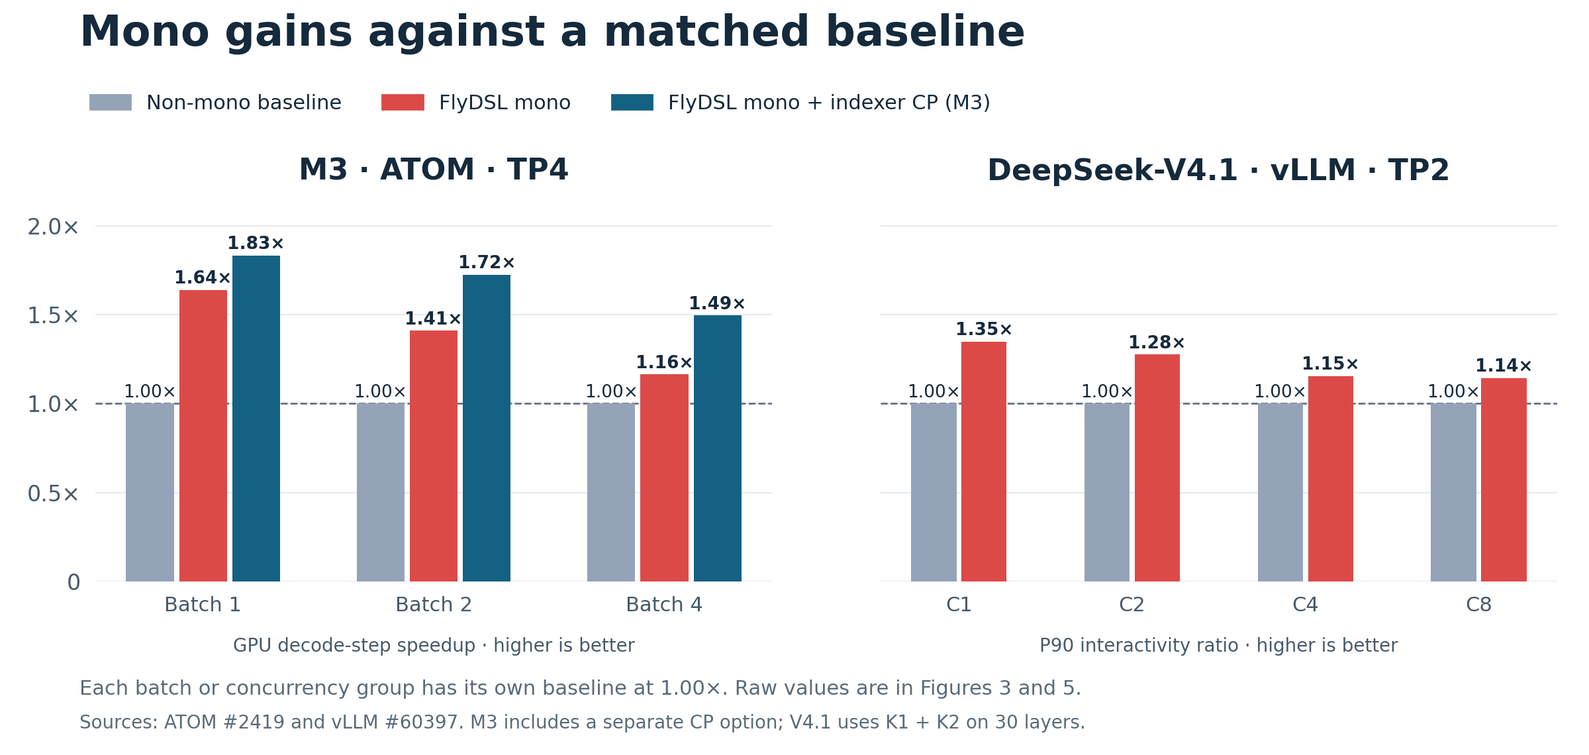
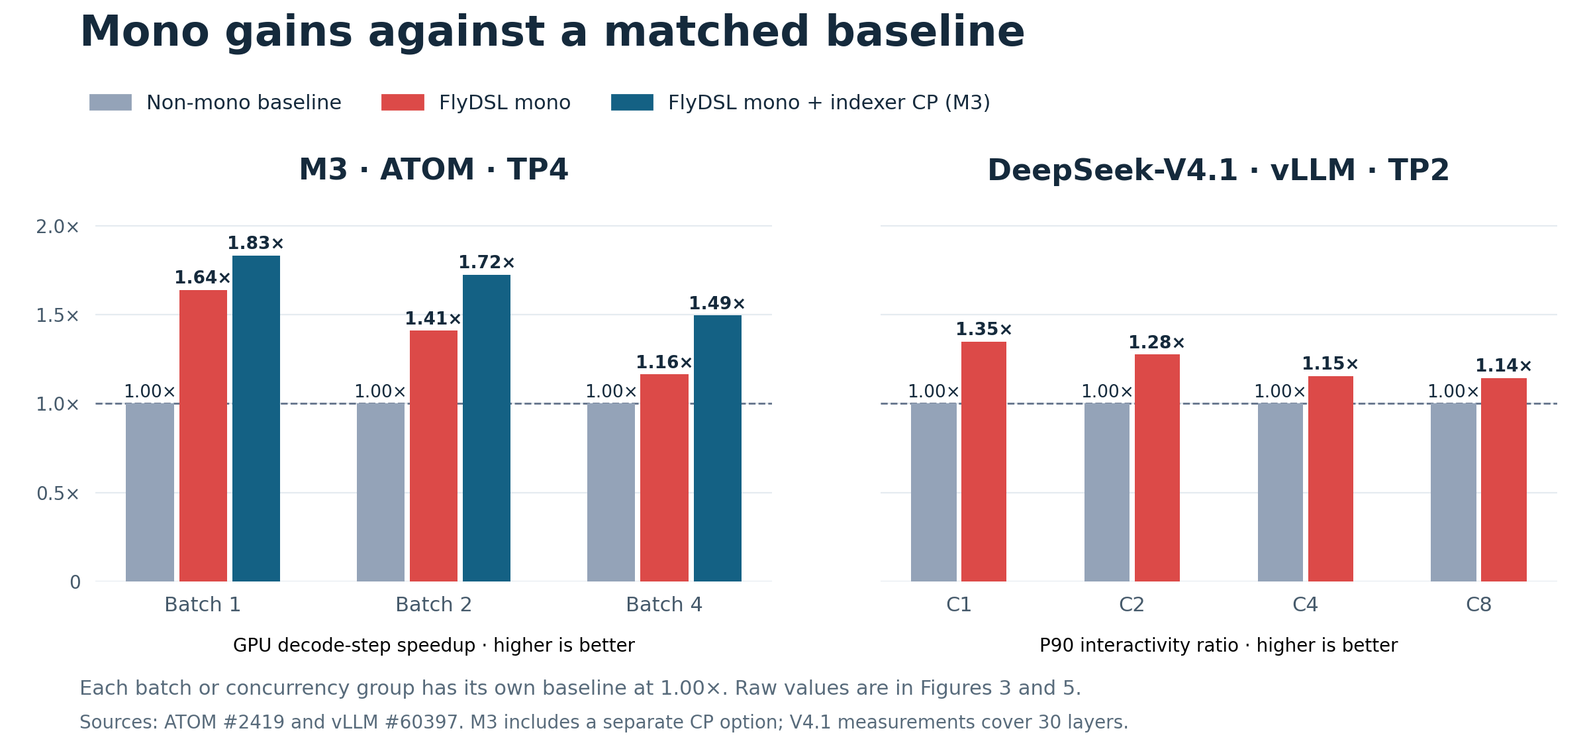
Review mono implementation claims and consolidate blog references

diff --git a/blogs/software-tools-optimization/flydsl-atom-mono-kernels/data/plot-vllm-agentx.py b/blogs/software-tools-optimization/flydsl-atom-mono-kernels/data/plot-vllm-agentx.py
@@ -21,8 +21,12 @@ for row in rows:
     if row["source"] != SOURCE or row["metric"] != "P90 interactivity":
         continue
     match = re.search(r"concurrency (\d+);", row["configuration"])
-    if match is None or row["unit"] != "tokens/s/user":
-        raise ValueError("Expected request concurrency and tokens/s/user")
+    if (
+        match is None
+        or row["unit"] != "tokens/s/user"
+        or "TP2;" not in row["configuration"]
+    ):
+        raise ValueError("Expected TP2, request concurrency, and tokens/s/user")
     concurrency = int(match[1])
     if concurrency in points:
         raise ValueError(f"Duplicate interactivity for concurrency {concurrency}")
@@ -55,9 +59,7 @@ for y, (concurrency, (off, on)) in zip([6, 4, 2, 0], sorted(points.items())):
 ax.legend(
     handles=[
         Patch(color=color, label=label)
-        for color, label in zip(
-            colors, ("Mono off", "FlyDSL mono: K1 + K2 on 30 layers")
-        )
+        for color, label in zip(colors, ("Mono off", "FlyDSL mono (30 layers)"))
     ],
     loc="upper left",
     bbox_to_anchor=(0, 1.17),
@@ -87,7 +89,7 @@ fig.text(
 fig.text(
     0.13,
     0.09,
-    "One 3,600 s run per mode and concurrency · synthetic DSpark acceptance 3.51",
+    "One 3,600 s run per mode and concurrency · synthetic DSpark acceptance length 3.51",
     fontsize=10,
 )
 fig.text(

diff --git a/blogs/software-tools-optimization/flydsl-atom-mono-kernels/data/plot-mono-speedups.py b/blogs/software-tools-optimization/flydsl-atom-mono-kernels/data/plot-mono-speedups.py
@@ -115,7 +115,7 @@ fig.text(
 fig.text(
     0.05,
     0.035,
-    "Sources: ATOM #2419 and vLLM #60397. M3 includes a separate CP option; V4.1 uses K1 + K2 on 30 layers.",
+    "Sources: ATOM #2419 and vLLM #60397. M3 includes a separate CP option; V4.1 measurements cover 30 layers.",
     fontsize=10,
     color="#586b7b",
 )

diff --git a/blogs/software-tools-optimization/flydsl-atom-mono-kernels/README.md b/blogs/software-tools-optimization/flydsl-atom-mono-kernels/README.md
@@ -29,62 +29,62 @@ myst:
 
 **Extremely high interactivity is critical for LLM applications with strict latency requirements.** Fast token generation helps a coding agent produce its next action sooner and move on to the next step. The goal is to improve interactivity by reducing decode latency.
 
-[FlyDSL](https://github.com/ROCm/FlyDSL) gives developers the flexibility to write and tune GPU code at the **grid, block, wave, thread, and instruction levels** in Python. They can control how work is assigned, how data is laid out and moved, and where synchronization is needed. These controls let them optimize individual operations and connect the stages of a model layer into **mono kernels** that overlap independent work and reduce waits. [ATOM][4] uses these capabilities to build mono decode across several model families. The approach also extends to [vLLM](https://github.com/vllm-project/vllm) and [SGLang](https://github.com/sgl-project/sglang).
+[FlyDSL][1] gives developers the flexibility to write and tune GPU code at the **grid, block, wave, thread, and instruction levels** in Python. They can control how work is assigned, how data is laid out and moved, and where synchronization is needed. These controls let them optimize individual operations and connect the stages of a model layer into **mono kernels** that overlap independent work and reduce waits. [ATOM](https://github.com/ROCm/ATOM) uses these capabilities to build mono decode across several model families. The approach also extends to [vLLM](https://github.com/vllm-project/vllm) and [SGLang](https://github.com/sgl-project/sglang).
 
 ## Why mono kernels speed up decode
 
-Small-batch decode runs many short kernels to process a few tokens at a time. Each launch adds overhead, and some kernels have too little parallel work to keep the GPU busy. When kernels depend on one another, each must finish before the next can begin.
+Small-batch decode runs many short kernels to process a few tokens at a time. Each launch adds overhead, and some kernels have too little parallel work to keep the GPU busy. On a stream, kernels run in sequence: a later stage waits for the previous kernel to finish, even when some of its input is already available.
 
-Mono kernels combine related operations into fewer launches and let thread blocks work across stages. Developers can load weights alongside earlier computation and let the next stage process portions of the output as they become ready. They can also overlap computation with reductions across GPUs. Together, these choices reduce idle time and help the decode step finish sooner. [3], [11]
+Mono kernels combine related operations into fewer launches and let thread blocks work across stages. Developers can load weights alongside earlier computation and let the next stage process portions of the output as they become ready. They can also overlap computation with reductions across GPUs. Together, these choices reduce idle time and help the decode step finish sooner. [2], [3]
 
 HIP Graph replay reduces CPU submission overhead, but the GPU still executes dependent kernels in sequence. Mono also changes how stages share data and overlap work within a launch.
 
 ## What FlyDSL provides
 
-FlyDSL gives developers four kinds of control over a GPU program: [2]
+FlyDSL gives developers four kinds of control over a GPU program: [1]
 
 - **Work assignment.** Assign tasks to thread blocks and threads, and tune the mapping for different numbers of tokens per step.
 - **Layout and tiling.** Choose how data is arranged and divided into tiles for each stage.
 - **Data movement and synchronization.** Decide when to load data and how to signal that an output is ready, within a GPU or across GPUs.
-- **Low-level control.** Write and tune a wide range of operations at the grid, block, wave, and thread levels, with control down to individual GPU instructions. [2], [7]
+- **Low-level control.** Write and tune a wide range of operations at the grid, block, wave, and thread levels, with control down to individual GPU instructions. [1], [2]
 
-These controls connect local kernel tuning with scheduling across a layer. Developers can coordinate blocks across a grid, tune work within a block, and control how threads cooperate within a wave. They can also decide how blocks hand data to later stages. This lets them optimize both the operations themselves and the way those operations work together. [2], [7]
+These controls connect local kernel tuning with scheduling across a layer. Developers can coordinate blocks across a grid, tune work within a block, and control how threads cooperate within a wave. They can also decide how blocks hand data to later stages. This lets them optimize both the operations themselves and the way those operations work together. [1], [2]
 
-Mono kernels use these controls to keep **thread blocks** active across stages, passing ready results to consumers and taking on new tasks as the layer advances. [3], [7]
+Mono kernels use these controls to keep **thread blocks** active across stages, passing ready results to consumers and taking on new tasks as the layer advances. [2]
 
 ![Work inside a mono kernel: prepare weights early, pass ready output to reductions, and feed the next computation](images/mono-overlap.svg)
 
 *Figure 1. Mono loads weights early, passes ready portions of the output forward, and overlaps reductions with computation. The timeline is schematic.*
 
-**Developers design the fusion.** They manage scheduling and synchronization, including keeping the required thread blocks resident so the kernel can make progress. ATOM handles runtime buffers, coordination across tensor-parallel (TP) ranks, graph replay, correctness checks, and fallback. [3], [8]
+**Developers design the fusion.** They manage scheduling and synchronization, including keeping the required thread blocks resident so the kernel can make progress. ATOM handles runtime buffers, coordination across tensor-parallel (TP) ranks, graph replay, correctness checks, and fallback. [2], [4]
 
-The design is inspired by **TileRT**. [5], [6]
+The design is inspired by **TileRT**. [5]
 
 ## Bringing mono kernels to ATOM
 
-ATOM supports FlyDSL mono decode for **GLM-5.2, Kimi-K3, DeepSeek-V4.1, and MiniMax-M3**. Its [shared mono components](https://github.com/ROCm/ATOM/tree/53e4fb52403707ab07b69ee909501ea3cc25ca5c/atom/mono) let developers adapt scheduling and data handoffs to each model. Kimi-K3 uses mono for its linear-attention (KDA) layers; its MLA layers keep the existing path. [1], [8], [13]
+ATOM supports FlyDSL mono decode for **GLM-5.2, Kimi-K3, DeepSeek-V4.1, and MiniMax-M3**. Its [shared mono components](https://github.com/ROCm/ATOM/tree/53e4fb52403707ab07b69ee909501ea3cc25ca5c/atom/mono) let developers adapt scheduling and data handoffs to each model. Kimi-K3 uses mono for eligible linear-attention (KDA) layers; its first layer and MLA layers keep the existing path. [2], [4], [6]
 
-The shared components handle recurring needs such as buffers, synchronization, and reductions. Each model supplies the schedule that connects its own stages. ATOM then connects that schedule to serving: batching and speculative decoding can change the number of tokens in a step, so runtime dispatch must select a supported path and keep participating GPUs in agreement. [8], [13]
+The shared components handle recurring needs such as buffers, synchronization, and reductions. Each model supplies the schedule that connects its own stages. ATOM then connects that schedule to serving: batching and speculative decoding can change the number of tokens in a step, so runtime dispatch must select a supported path and keep participating GPUs in agreement. [4], [6]
 
 The following diagrams focus on the computations handled by mono kernels and how their data flows between stages.
 
 ### MiniMax-M3: connecting attention and experts
 
-For MiniMax-M3's sparse layers, mono fuses the path from input normalization through attention and mixture-of-experts (MoE) computation to the reduced expert output. **The matrix multiplications are included:** Q/K/V and index projections, the attention output projection, routing, and the shared and routed experts' up/gate and down projections. Head normalization, positional encoding (RoPE), cache writes, and TP reductions are also part of the fused computation. [3]
+For MiniMax-M3's sparse layers, mono fuses the path from input normalization through attention and mixture-of-experts (MoE) computation to the reduced expert output. **The matrix multiplications are included:** Q/K/V and index projections, the attention output projection, routing, and the shared and routed experts' up/gate and down projections. Head normalization, positional encoding (RoPE), cache writes, and TP reductions are also part of the fused computation. [2]
 
-Layers that reuse an earlier layer's selected blocks skip index scoring and selection. The first three dense layers also use fused input preparation and fused output-projection/MLP computation; their attention calculation uses the existing backend. [3]
+Layers that reuse an earlier layer's selected blocks skip indexer projections, scoring, and selection. The first three dense layers also use fused input preparation and fused output-projection/MLP computation; their attention calculation uses the existing backend. [2]
 
 ![MiniMax-M3 mono computation: input projections, query and cache preparation, sparse attention, output projection and reduction, routing, and expert projections and reduction](images/minimax-mono-flow.svg)
 
-*Figure 2. Computations fused in M3's sparse-layer mono path. Matrix multiplications appear in the input projections, attention, output projection, router, and experts. Arrows summarize data flow; independent tasks can overlap. [3]*
+*Figure 2. Computations fused in M3's sparse-layer mono path. Matrix multiplications appear in the input projections, attention, output projection, router, and experts. Arrows summarize data flow; independent tasks can overlap. [2]*
 
 Three scheduling choices reduce waits:
 
-- **Reuse thread blocks across stages.** A block can finish attention work and then take on routing or expert tasks. Its role changes as the layer progresses, allowing the schedule to use the same GPU resources for different operations. [3], [9]
-- **Load weights early.** A later stage's weights can load while earlier work is still running. The later calculation still waits for its input, but its weight loads can already be under way. [3], [9]
-- **Pass on ready data.** Tagged buffers identify outputs from the current decode step. Consumers and cross-GPU reductions can begin on ready portions, while other blocks are still producing the rest. Progress depends on the data each task needs. [3], [7]
+- **Reuse thread blocks across stages.** A block can finish attention work and then take on routing or expert tasks. Its role changes as the layer progresses, allowing the schedule to use the same GPU resources for different operations. [2]
+- **Load weights early.** A later stage's weights can load while earlier work is still running. The later calculation still waits for its input, but its weight loads can already be under way. [2]
+- **Pass on ready data.** Tagged buffers let consumers check that the outputs they need are ready. Consumers and cross-GPU reductions can begin on ready portions, while other blocks are still producing the rest. Progress depends on the data each task needs. [2]
 
-**Decode latency.** These measurements use MI355X, TP4, MiniMax-M3-MXFP4, a 1M-token context, and EAGLE3 with three speculative tokens. **Separate** and **Mono** compare complete ATOM execution paths at the revision measured in [1], where the first three dense layers still used the original path. **Mono + CP** adds indexer context parallelism, a separate long-context optimization described in the [supporting measurements](#appendix-supporting-measurements). [1]
+**Decode latency.** These measurements use MI355X, TP4, MiniMax-M3-MXFP4, a 1M-token context, and EAGLE3 with three speculative tokens. **Separate** and **Mono** compare complete ATOM execution paths at the revision measured in [7], where the first three dense layers still used the original path. **Mono + CP** adds indexer context parallelism, a separate long-context optimization described in the [supporting measurements](#appendix-supporting-measurements). [7]
 
 Times are median GPU decode-step latency in milliseconds; parentheses show speedup relative to Separate.
 
@@ -96,37 +96,37 @@ Times are median GPU decode-step latency in milliseconds; parentheses show speed
 
 ![M3 GPU decode-step latency in ATOM: separate-kernel baseline, FlyDSL mono, and mono plus indexer CP compared at each batch size of 1, 2, and 4](images/minimax-flydsl-decode-step.png)
 
-*Figure 3. Each batch size has its own separate-kernel baseline. Labels show latency and speedup against that baseline. Indexer CP is an additional long-context optimization. [1]*
+*Figure 3. Each batch size has its own separate-kernel baseline. Labels show latency and speedup against that baseline. Indexer CP is an additional long-context optimization. [7]* [Data](data/minimax-decode-step.csv) · [Plotting script](data/plot-minimax-decode-step.py)
 
-**Mono alone delivers 1.64× speedup at batch one; the 1.83× result includes CP.** Gains are smaller at larger batches. These GPU-step measurements do not directly measure per-user token rate or isolate the contribution of each scheduling choice.
+**Mono alone delivers 1.64× speedup at batch one; the 1.83× result includes CP.** Gains are smaller at larger batches. These GPU-step measurements do not directly measure per-user token rate or isolate the contribution of each scheduling choice. A [launch example](data/run-minimax-m3-mono.sh) starts an ATOM server using the measured revision's recipe.
 
 A larger batch gives separate kernels more work to distribute across the GPU and more tokens over which to spread launch overhead. That can reduce the relative benefit of mono, although the balance depends on the model and schedule.
 
 ### DeepSeek-V4.1 in ATOM
 
-DeepSeek-V4.1 uses FlyDSL mono kernels to fuse attention preparation and to connect attention with MoE. The fused computations include: [8], [23]
+DeepSeek-V4.1 uses FlyDSL mono kernels to fuse attention preparation and to connect attention with MoE. The fused computations include: [4]
 
 - **Prepare attention inputs.** Combine residual updates and normalization with query, KV, and indexer projections, RoPE, and window-cache writes. Indexer inputs are prepared only for layers that select keys.
 - **Connect attention to MoE.** Score and select keys where needed, compute attention and output projections, then reduce the results across TP ranks and normalize the input to MoE. Routing, shared and routed expert projections, and the expert reduction are fused into this path.
 
-The attention-to-MoE schedule passes each ready normalized row to the router and expert stages. It also starts loading output-projection weights before the attention results are ready. FlyDSL lets developers express these data handoffs and early loads directly. The DSpark draft runner reuses the same kernel implementations with window-only attention and its own expert configuration. [23]
+The attention-to-MoE schedule passes each ready normalized row to the router and expert stages. It starts loading output-projection weights before waiting for the attention output, allowing those loads to overlap earlier work. FlyDSL lets developers express these data handoffs and early loads directly. The DSpark draft runner reuses the same kernel implementations with window-only attention and its own expert configuration. [4]
 
 ![DeepSeek-V4.1 mono computations: prepare attention inputs, select keys where needed, compute attention, project and reduce its output, then route tokens and compute and reduce expert outputs](images/atom-deepseek-v41-mono-flow.svg)
 
-*Figure 4. Data flow through DeepSeek-V4.1's mono computations. The diagram focuses on fused work; model-specific operations outside mono and runtime setup are omitted. Arrows show data dependencies, not a launch timeline. [23]*
+*Figure 4. Data flow through DeepSeek-V4.1's mono computations. The diagram focuses on fused work; model-specific operations outside mono and runtime setup are omitted. Arrows show data dependencies, not a launch timeline. [4]*
 
-For eligible steps, GPUs divide token rows among themselves for some stages, instead of every GPU repeating that work for all rows. Independent loads also start before the kernel waits for data from another stage. The schedule uses FlyDSL to adjust work assignment and communication together. [20]
+For eligible steps, GPUs divide token rows among themselves for some stages, instead of every GPU repeating that work for all rows. Independent loads also start before the kernel waits for data from another stage. The schedule uses FlyDSL to adjust work assignment and communication together. [4]
 
 ### Interactivity results in ATOM
 
-The [InferenceX AgentX](https://inferencex.semianalysis.com/agentx) benchmark replays multi-turn, long-context agent sessions. Its **P90 interactivity is 1 / P90 inter-token latency**, with latency in seconds. Higher values mean faster token generation at the slower end of the request distribution. [14], [15]
+The [InferenceX AgentX](https://inferencex.semianalysis.com/agentx) benchmark replays multi-turn, long-context agent sessions. It collects inter-token latency for each request and reports **P90 interactivity as 1 / P90 inter-token latency**, with latency in seconds. Higher values mean faster token generation at the slower end of the request distribution. [8]
 
-The published ATOM results below use **MI355X** with FlyDSL mono decode enabled. **They have no matched mono-off baseline:** the table describes complete serving configurations, not the gain from enabling mono. It shows concurrency one (C1). [16], [17]
+The [published ATOM results](data/atom-agentx-source.json) below use **MI355X** with FlyDSL mono decode enabled. **They have no matched mono-off baseline:** the table describes complete serving configurations, not the gain from enabling mono. It shows concurrency one (C1).
 
-- **MiniMax-M3-MXFP4, TP4:** EAGLE3 with three draft tokens and synthetic acceptance 2.78, FP8 KV and index caches. [18], [21]
-- **DeepSeek-V4.1-Flash, TP2 and TP4:** DSpark with five draft tokens and synthetic acceptance 3.51, BF16 KV and an FP4 index cache. [19], [21]
+- **MiniMax-M3-MXFP4, TP4:** EAGLE3 with three draft tokens and synthetic acceptance length 2.78, FP8 KV and index caches.
+- **DeepSeek-V4.1-Flash, TP2 and TP4:** DSpark with five draft tokens and synthetic acceptance length 3.51, BF16 KV and an FP4 index cache.
 
-Each point uses a **3,600-second profiling window**. These controlled replays do not establish natural acceptance. Both sets use GPU-resident KV caches. Exact recipes, images, acceptance settings, and source records are linked in the [ATOM serving data](data/atom-agentx.csv). [18], [19], [21]
+Acceptance length counts the average output tokens per verification step, including the target token. Each point uses a configured **3,600-second profiling window**. These controlled replays do not establish natural acceptance. Both sets use GPU-resident KV caches. Exact recipes, images, acceptance settings, and source records are linked in the [ATOM serving data](data/atom-agentx.csv).
 
 The table reports P90 interactivity in tokens/s/user, **output throughput** in generated tokens/s/GPU, and P90 time to first token (TTFT) in seconds. Output throughput counts generated tokens over the profiling window; interactivity describes the pace between tokens once generation starts.
 
@@ -140,23 +140,23 @@ The distinction matters: M3's C1 input + output total is **6,580 tokens/s/GPU**,
 
 ## Extending to vLLM and SGLang
 
-**vLLM** takes inspiration from ATOM's mono work and adapts the FlyDSL kernels to its KV-cache layout and runtime. For DeepSeek-V4.1-Flash on MI355X, its same-node **TP2, concurrency-one** comparison raises P90 interactivity from **318.1 to 429.1 tokens/s/user (1.35×)** by enabling mono on 30 standard layers. Each concurrency setting has **one 3,600-second run per mode**, using five-token DSpark with synthetic acceptance 3.51. [11], [12]
+**vLLM** takes inspiration from ATOM's mono work and adapts the FlyDSL kernels to its KV-cache layout and runtime. A published same-node **TP2, concurrency-one** comparison for DeepSeek-V4.1-Flash on MI355X raises P90 interactivity from **318.1 to 429.1 tokens/s/user (1.35×)** with mono on 30 standard layers. Each concurrency setting has **one 3,600-second run per mode**, using DSpark with five draft tokens and synthetic acceptance length 3.51. [3]
 
 ![DeepSeek-V4.1-Flash in vLLM on MI355X TP2: paired mono-off/on bars show 1.35, 1.28, 1.15, and 1.14 times P90 interactivity at concurrency 1, 2, 4, and 8](images/vllm-dsv41-interactivity.png)
 
-*Figure 5. Each group compares mono off and on at the same request concurrency. Longer bars mean faster token generation. Labels show the measured values and their ratio. [11]*
+*Figure 5. Each group compares mono off and on at the same request concurrency. Longer bars mean faster token generation. Labels show the measured values and their ratio. [3]*
 
 TTFT rises at C1/C8 and falls at C2/C4 in these runs; a repeatable TTFT change is not established. The [supporting measurements](#vllm-evaluation-details) include all four TTFT pairs. These performance replays use a fixed acceptance setting; they do not establish the full user experience with natural acceptance.
 
-**SGLang's [mono kernel framework RFC][22]** describes how to extend mono decode through a shared framework and GPU-vendor plugins, including AMD's `sgl-amd-mono`. The plugins supply model kernels, while SGLang handles step selection and runtime integration.
+**SGLang's [mono kernel framework RFC][9]** describes how to extend mono decode through a shared framework and GPU-vendor plugins, including AMD's `sgl-amd-mono`. The plugins supply model kernels, while SGLang handles step selection and runtime integration.
 
 ## Scope and costs
 
-A fused kernel keeps more work and state in one program. Register and shared-memory use must leave enough thread blocks able to run at once. That resource budget is part of schedule design and can limit how much work to combine. [3], [7]
+A fused kernel keeps more work and state in one program. Register and shared-memory use must leave enough thread blocks able to run at once. That resource budget is part of schedule design and can limit how much work to combine. [2]
 
-- **Where gains shrink.** M3's GPU-step speedup falls from 1.64× at batch one to 1.16× at batch four; vLLM's interactivity gain falls from 1.35× at C1 to 1.14× at C8. A separate vLLM FFN-only layer test is already near parity at TP2/C8: **345 → 342 µs (1.01×)** at 48 token rows. The cited full-model comparisons do not locate a 1.0× crossover. [1], [11]
-- **When mono takes over.** Dispatch checks the model, GPU, TP size, layouts, and step metadata. In the cited revisions, M3 supports up to **16 token rows** per step; ATOM and vLLM V4.1 support up to **48**. Rows include speculative tokens: one request with five drafts can use six rows. The vLLM path requires decode-only steps, supported cache metadata, and eager execution or full graph replay. Larger or unsupported steps use the standard path, with every TP rank making the same choice. These coverage limits are not measured break-even thresholds. [1], [3], [11], [20]
-- **Development cost.** Developers tailor and validate schedules for each model and keep them in sync with model changes. Correctness checks and task evaluations are part of that work. [11]
+- **Where gains shrink.** M3's GPU-step speedup falls from 1.64× at batch one to 1.16× at batch four; vLLM's interactivity gain falls from 1.35× at C1 to 1.14× at C8. A separate vLLM FFN-only layer test is already near parity at TP2/C8: **345 → 342 µs (1.01×)** at 48 token rows. The cited full-model comparisons do not locate a 1.0× crossover. [3], [7]
+- **When mono takes over.** Dispatch checks the model, GPU, TP size, layouts, and step metadata. In the cited revisions, M3 supports up to **16 token rows** per step; ATOM and vLLM V4.1 support up to **48**. Speculative tokens and graph padding count toward these limits: one request with five drafts can use six rows before padding. In a supported deployment, larger or unsupported steps use the standard path, with every TP rank making the same choice. The vLLM path requires decode-only steps, supported cache metadata, and eager execution or full graph replay; explicitly enabling it on unsupported hardware or backends raises a configuration error. These coverage limits are not measured break-even thresholds. [2], [3], [4]
+- **Development cost.** Developers tailor and validate schedules for each model and keep them in sync with model changes. Correctness checks and task evaluations are part of that work. [3]
 
 ## Build a mono path for your model
 
@@ -168,23 +168,23 @@ Start with the [FlyDSL mono components](https://github.com/ROCm/FlyDSL/tree/31f3
 
 ## Appendix: Supporting measurements
 
-**Indexer context parallelism in M3.** ATOM splits index scoring across four TP ranks, then exchanges candidates to recover the final selection. This is the additional optimization behind the Mono + CP results. [1], [3]
+**Indexer context parallelism in M3.** ATOM splits index scoring across four TP ranks, then exchanges candidates to recover the final selection. This is the additional optimization behind the Mono + CP results. [2], [7]
 
-At 1M context, TP4, 16 token rows, and four query rows per request, the [layer measurement](data/minimax-indexer-cp-layer.csv) records **222.2 → 156.7 µs (1.42×)** with CP. Both runs use mono and graph replay. [1]
+At 1M context, TP4, 16 token rows, and four query rows per request, the [layer measurement](data/minimax-indexer-cp-layer.csv) records **222.2 → 156.7 µs (1.42×)** with CP. Both runs use mono and graph replay. [7]
 
 ![MiniMax-M3 indexer context parallelism across four TP ranks](images/minimax-indexer-cp.svg)
 
 *Figure 6. Each rank scores part of the cache, then exchanges its best candidates so the owning rank can make the final selection.*
 
-**Direct mono comparisons.** Figure 7 summarizes the paired results from Figures 3 and 5. Each group includes its own non-mono baseline, normalized to 1.00×. M3 uses ATOM GPU-step latency; V4.1 uses vLLM interactivity. [1], [11]
+**Direct mono comparisons.** Figure 7 summarizes the paired results from Figures 3 and 5. Each group includes its own non-mono baseline, normalized to 1.00×. M3 uses ATOM GPU-step latency; V4.1 uses vLLM interactivity. [3], [7]
 
 ![Direct mono comparisons: M3 in ATOM at batch 1, 2, and 4, and V4.1 in vLLM at concurrency 1, 2, 4, and 8; each group includes a non-mono baseline at 1.00 times](images/mono-speedup-comparison.png)
 
-*Figure 7. Baseline and mono are paired within each batch or concurrency group. The left panel divides separate-kernel latency by mono latency; the right divides mono interactivity by mono-off interactivity. The raw values appear in Figures 3 and 5. [1], [11]*
+*Figure 7. Baseline and mono are paired within each batch or concurrency group. The left panel divides separate-kernel latency by mono latency; the right divides mono interactivity by mono-off interactivity. The raw values appear in Figures 3 and 5. [3], [7]* [Plotting script](data/plot-mono-speedups.py)
 
 ### vLLM evaluation details
 
-**TTFT.** P90 TTFT, in seconds, changes as follows in the TP2 mono-off/on runs plotted in Figure 5. Each mode has one 3,600-second run per concurrency, so these observations do not establish a repeatable TTFT change. [11]
+**TTFT.** P90 TTFT, in seconds, changes as follows in the TP2 mono-off/on runs plotted in Figure 5. Each mode has one 3,600-second run per concurrency, so these observations do not establish a repeatable TTFT change. [3]
 
 | Concurrency | Mono off | Mono on |
 | ---: | ---: | ---: |
@@ -193,62 +193,26 @@ At 1M context, TP4, 16 token rows, and four query rows per request, the [layer m
 | 4 | 1.27 | 1.26 |
 | 8 | 1.01 | 1.08 |
 
-**Additional vLLM measurements.** The [comparison CSV](data/mono-benefits.csv) records the TP2 mono-off/on results at C1, C2, C4, and C8, including TTFT; the [Figure 5 script](data/plot-vllm-agentx.py) reads the interactivity values directly. The CSV retains input + output totals, which include cached input and are not output throughput. [11]
-
-### Sources and reproduction
-
-**Additional models.** The [comparison CSV](data/mono-benefits.csv) also includes historical GLM-5 and Kimi-K3 layer tests, separate from ATOM serving results. [5] The cited Kimi-K3 serving results have a [confirmed DSpark auxiliary-state capture issue](https://github.com/ROCm/ATOM/pull/2535#discussion_r4266162046), so they are excluded here. [13]
-
-**Data and reproduction.** The [M3 decode-step CSV](data/minimax-decode-step.csv) and other linked CSVs preserve reported values and configurations. The [Figure 3 script](data/plot-minimax-decode-step.py) plots the M3 latency data. The [archived ATOM source records](data/atom-agentx-source.json) support the serving table. The [M3 launch example](data/run-minimax-m3-mono.sh) adapts the source recipe for four MI355X GPUs; it starts a server and does not run the measurements. [10] All measurements in this article come from the cited sources.
-
-The [Figure 7 script](data/plot-mono-speedups.py) calculates each speedup from the matched baseline and mono values in the two comparison CSVs.
+**Additional vLLM measurements.** The [comparison CSV](data/mono-benefits.csv) records the TP2 mono-off/on results at C1, C2, C4, and C8, including TTFT; the [Figure 5 script](data/plot-vllm-agentx.py) reads the interactivity values directly. The CSV retains input + output totals, which include cached input and are not output throughput. [3]
 
 ## References
 
-1. [ATOM: MiniMax-M3 mono decode and measurements](https://github.com/ROCm/ATOM/pull/2419).
-2. [FlyDSL language and compiler](https://github.com/ROCm/FlyDSL).
-3. [ATOM's M3 mono implementation](https://github.com/ROCm/ATOM/tree/53e4fb52403707ab07b69ee909501ea3cc25ca5c/atom/models/minimax_m3/mono).
-4. [ATOM inference engine](https://github.com/ROCm/ATOM).
-5. [FlyDSL: GLM-5 and Kimi-K3 mono work](https://github.com/ROCm/FlyDSL/pull/1204).
-6. [TileRT](https://github.com/tile-ai/TileRT).
-7. [ATOM device synchronization and tagged mailboxes](https://github.com/ROCm/ATOM/blob/53e4fb52403707ab07b69ee909501ea3cc25ca5c/atom/mono/device/sync.py).
-8. [ATOM: DeepSeek-V4.1 and shared mono components](https://github.com/ROCm/ATOM/pull/2479).
-9. [M3 task scheduling](https://github.com/ROCm/ATOM/blob/53e4fb52403707ab07b69ee909501ea3cc25ca5c/atom/models/minimax_m3/mono/layout.py).
-10. [MiniMax-M3 serving recipe](https://github.com/ROCm/ATOM/blob/2b9f3412e466fd4172a4a621fe9215a1041130c1/recipes/MiniMax-M3.md).
-11. [vLLM: DeepSeek-V4.1-Flash mono decode and AgentX results](https://github.com/vllm-project/vllm/pull/60397).
-12. [vLLM: all-layer mono coverage and evaluations](https://github.com/vllm-project/vllm/pull/61082).
-13. [ATOM: GLM-5.2 and Kimi-K3 mono decode](https://github.com/ROCm/ATOM/pull/2535).
-14. [InferenceX AgentX dashboard](https://inferencex.semianalysis.com/agentx).
-15. [InferenceX AgentX metric definitions](https://github.com/SemiAnalysisAI/InferenceX/blob/8b25006fa0b23c7e157438996a3d2a90ff5e8cd2/inferencex-e2e/infx/results/agentic/request_metrics.py).
-16. [InferenceX: ATOM MiniMax-M3 serving records](https://inferencex.semianalysis.com/api/v1/benchmarks?model=MiniMax-M3).
-17. [InferenceX: ATOM DeepSeek-V4.1-Flash serving records](https://inferencex.semianalysis.com/api/v1/benchmarks?model=DeepSeek-V4.1-Flash).
-18. [MiniMax-M3 AgentX recipe at the measured revision](https://github.com/SemiAnalysisAI/InferenceX/blob/4b94f096b74191b8af6b7c89e50e0b6bc69f7aba/inferencex-e2e/benchmarks/single_node/srt-slurm-recipes/minimaxm3/atom/mi355x-fp4-mtp/agentic.yaml).
-19. [DeepSeek-V4.1-Flash AgentX recipe at the measured revision](https://github.com/SemiAnalysisAI/InferenceX/blob/2597d3d1ce010ee10b82e08bd5b448fea054b5ac/inferencex-e2e/benchmarks/single_node/srt-slurm-recipes/dsv41flash/atom/mi355x-fp4-mtp/agentic.yaml).
-20. [ATOM: DeepSeek-V4.1 mono scheduling and replay updates](https://github.com/ROCm/ATOM/pull/2545).
-21. [InferenceX synthetic acceptance for AgentX performance runs](https://github.com/SemiAnalysisAI/InferenceX/blob/4b94f096b74191b8af6b7c89e50e0b6bc69f7aba/inferencex-e2e/infx/srt_slurm/synthetic_acceptance.py).
-22. [SGLang: mono kernel framework RFC](https://github.com/sgl-project/sglang/issues/43949).
-23. [ATOM: DeepSeek-V4.1 mono implementation](https://github.com/ROCm/ATOM/tree/53e4fb52403707ab07b69ee909501ea3cc25ca5c/atom/models/deepseek_v41/mono).
+1. [FlyDSL language and compiler](https://github.com/ROCm/FlyDSL).
+2. [ATOM's M3 mono implementation](https://github.com/ROCm/ATOM/tree/53e4fb52403707ab07b69ee909501ea3cc25ca5c/atom/models/minimax_m3/mono).
+3. [vLLM: DeepSeek-V4.1-Flash mono decode and AgentX results](https://github.com/vllm-project/vllm/pull/60397).
+4. [ATOM's DeepSeek-V4.1 mono implementation](https://github.com/ROCm/ATOM/tree/53e4fb52403707ab07b69ee909501ea3cc25ca5c/atom/models/deepseek_v41/mono).
+5. [TileRT](https://github.com/tile-ai/TileRT).
+6. [ATOM: GLM-5.2 and Kimi-K3 mono decode](https://github.com/ROCm/ATOM/pull/2535).
+7. [ATOM: MiniMax-M3 mono decode and measurements](https://github.com/ROCm/ATOM/pull/2419).
+8. [InferenceX AgentX metric definitions](https://github.com/SemiAnalysisAI/InferenceX/blob/8b25006fa0b23c7e157438996a3d2a90ff5e8cd2/inferencex-e2e/infx/results/agentic/request_metrics.py).
+9. [SGLang: mono kernel framework RFC](https://github.com/sgl-project/sglang/issues/43949).
 
-[1]: https://github.com/ROCm/ATOM/pull/2419
-[2]: https://github.com/ROCm/FlyDSL
-[3]: https://github.com/ROCm/ATOM/tree/53e4fb52403707ab07b69ee909501ea3cc25ca5c/atom/models/minimax_m3/mono
-[4]: https://github.com/ROCm/ATOM
-[5]: https://github.com/ROCm/FlyDSL/pull/1204
-[6]: https://github.com/tile-ai/TileRT
-[7]: https://github.com/ROCm/ATOM/blob/53e4fb52403707ab07b69ee909501ea3cc25ca5c/atom/mono/device/sync.py
-[8]: https://github.com/ROCm/ATOM/pull/2479
-[9]: https://github.com/ROCm/ATOM/blob/53e4fb52403707ab07b69ee909501ea3cc25ca5c/atom/models/minimax_m3/mono/layout.py
-[10]: https://github.com/ROCm/ATOM/blob/2b9f3412e466fd4172a4a621fe9215a1041130c1/recipes/MiniMax-M3.md
-[11]: https://github.com/vllm-project/vllm/pull/60397
-[12]: https://github.com/vllm-project/vllm/pull/61082
-[13]: https://github.com/ROCm/ATOM/pull/2535
-[14]: https://inferencex.semianalysis.com/agentx
-[15]: https://github.com/SemiAnalysisAI/InferenceX/blob/8b25006fa0b23c7e157438996a3d2a90ff5e8cd2/inferencex-e2e/infx/results/agentic/request_metrics.py
-[16]: https://inferencex.semianalysis.com/api/v1/benchmarks?model=MiniMax-M3
-[17]: https://inferencex.semianalysis.com/api/v1/benchmarks?model=DeepSeek-V4.1-Flash
-[18]: https://github.com/SemiAnalysisAI/InferenceX/blob/4b94f096b74191b8af6b7c89e50e0b6bc69f7aba/inferencex-e2e/benchmarks/single_node/srt-slurm-recipes/minimaxm3/atom/mi355x-fp4-mtp/agentic.yaml
-[19]: https://github.com/SemiAnalysisAI/InferenceX/blob/2597d3d1ce010ee10b82e08bd5b448fea054b5ac/inferencex-e2e/benchmarks/single_node/srt-slurm-recipes/dsv41flash/atom/mi355x-fp4-mtp/agentic.yaml
-[20]: https://github.com/ROCm/ATOM/pull/2545
-[21]: https://github.com/SemiAnalysisAI/InferenceX/blob/4b94f096b74191b8af6b7c89e50e0b6bc69f7aba/inferencex-e2e/infx/srt_slurm/synthetic_acceptance.py
-[22]: https://github.com/sgl-project/sglang/issues/43949
-[23]: https://github.com/ROCm/ATOM/tree/53e4fb52403707ab07b69ee909501ea3cc25ca5c/atom/models/deepseek_v41/mono
+[1]: https://github.com/ROCm/FlyDSL
+[2]: https://github.com/ROCm/ATOM/tree/53e4fb52403707ab07b69ee909501ea3cc25ca5c/atom/models/minimax_m3/mono
+[3]: https://github.com/vllm-project/vllm/pull/60397
+[4]: https://github.com/ROCm/ATOM/tree/53e4fb52403707ab07b69ee909501ea3cc25ca5c/atom/models/deepseek_v41/mono
+[5]: https://github.com/tile-ai/TileRT
+[6]: https://github.com/ROCm/ATOM/pull/2535
+[7]: https://github.com/ROCm/ATOM/pull/2419
+[8]: https://github.com/SemiAnalysisAI/InferenceX/blob/8b25006fa0b23c7e157438996a3d2a90ff5e8cd2/inferencex-e2e/infx/results/agentic/request_metrics.py
+[9]: https://github.com/sgl-project/sglang/issues/43949
